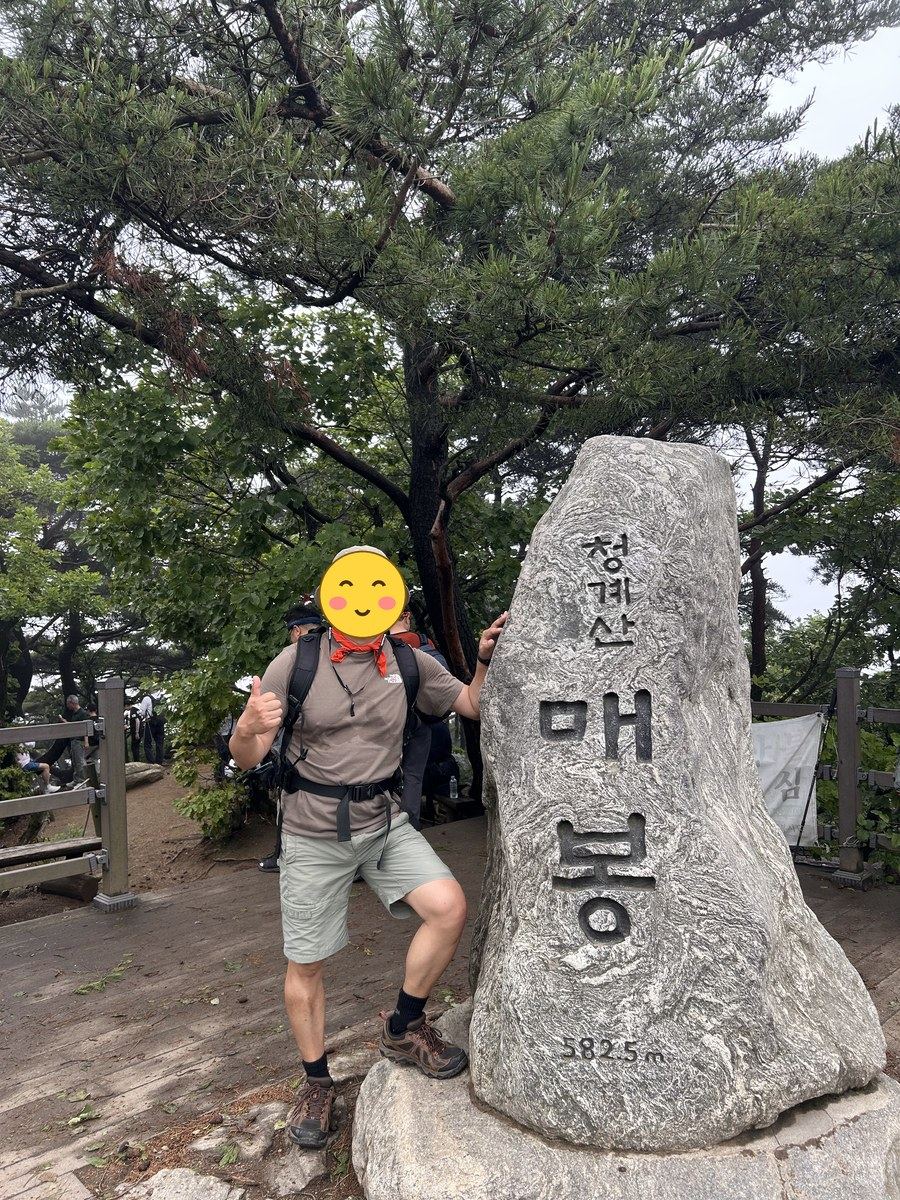
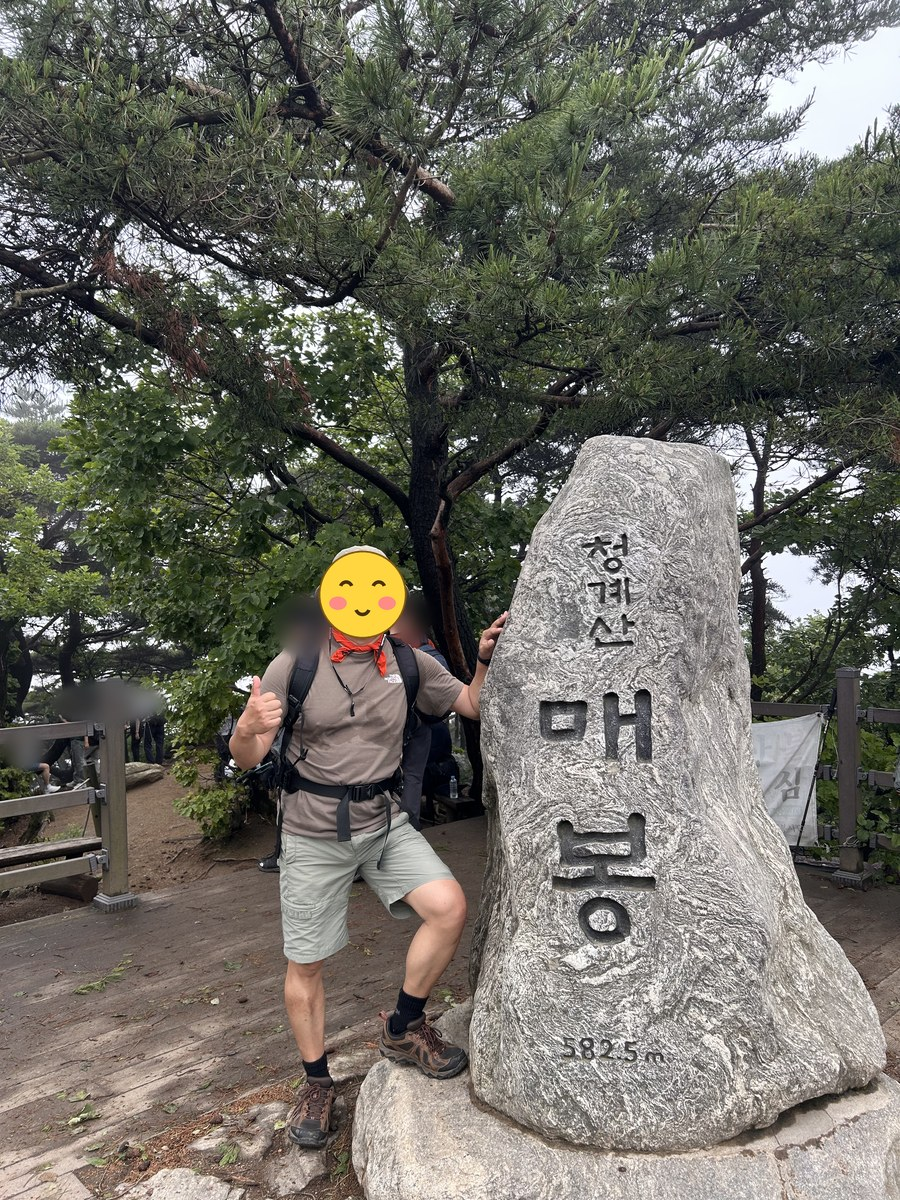
청계산 정상 사진 속 다른 등산객 얼굴 흐림 처리
Claude-Session: https://claude.ai/code/session_017VzL9DGGRFGZqtRBt5vjce

diff --git a/docs/mountain/청계산.html b/docs/mountain/청계산.html
@@ -64,7 +64,7 @@
 
   <div class="post-body">
     <div class="main"><div class="lede"><p>청계산은 서울·과천·성남·의왕에 걸친 산으로, 대부분의 구간이 흙길이라 무릎에 부담이 적습니다. 관악산이 바위산이라면 청계산은 그 반대 성격입니다.</p><p>대부분의 등산객이 목표로 삼는 곳은 매봉입니다. 원터골 입구에서 약수터와 깔딱고개를 지나 매봉까지 약 3km, 1시간 20분이면 닿습니다. 돌문바위·매바위를 거치는 코스로 잡으면 왕복 5.4km, 2시간 20분입니다.</p><p>옛골에서 오르는 코스도 인기입니다. 정토사와 혈읍재를 지나 매봉까지 1시간 40분 정도 걸립니다. 다만 청계산의 실제 최고봉은 매봉이 아니라 망경대(618m)로, 군사시설이 있어 접근이 제한됩니다.</p></div>
-    <section class="blk"><h2>등반기록</h2><article class="lg"><header class="lg-head"><a class="lg-fly" href="../assets/3d/cheonggyesan-2025-06-21.html?v=58632e3d" target="_blank"><span class="lg-fly-ic" aria-hidden="true">▶</span>3D 코스 따라가 보기</a><b class="lg-title">원터골에서 오른 청계산 매봉</b><p class="lg-sub">청계산입구(원터골) → 능선 → 매봉 정상 → 능선 동쪽 구간 왕복 → 다른 길로 원터골 하산</p><div class="lg-chips"><span class="lg-chip">2025.06.21</span><span class="lg-chip">청계산입구(원터골) 출발</span><span class="lg-chip">흐림</span></div></header><div class="lg-stats"><div class="lg-stat"><b>8.44km</b><span>이동 거리</span></div><div class="lg-stat"><b>4:13:47</b><span>총 소요시간</span></div><div class="lg-stat"><b>650m</b><span>고도 상승</span></div><div class="lg-stat"><b>15,430보</b><span>걸음 수</span></div><div class="lg-stat"><b>908kcal</b><span>소모 칼로리</span></div><div class="lg-stat"><b>30&#x27;03&quot;/km</b><span>평균 페이스</span></div></div><h3>원터골에서 매봉으로</h3><p>토요일 오전 10시 1분, 원터골 쪽에서 출발했습니다. 중간중간 쉬어 가며 능선에 올라 11시 48분쯤 매봉 정상에 도착했네요. 출발한 지 1시간 50분 만입니다.</p><h3>청계산 매봉, 582.5m</h3><p>흐린 날씨였지만 소나무 아래 매봉 정상석 앞에서 인증샷을 남기고 30분쯤 쉬었습니다.</p><figure class="lg-fig"><img src="../assets/photos/log/청계산-2025-06-21-2391.5dd8a8ca.jpg" alt="청계산 매봉 정상석에서 (11시 49분)" loading="lazy" decoding="async"><figcaption>청계산 매봉 정상석에서 (11시 49분)</figcaption></figure><h3>능선을 조금 더 걷고 원터골로 하산</h3><p>12시 19분에 정상을 떠나 능선 동쪽으로 조금 더 걸어갔다가 되돌아왔고, 올라온 길과는 다른 길로 내려와 14시 15분에 산행을 마쳤습니다. 총 8.44km, 4시간 13분이 걸렸네요.</p><figure class="lg-fig"><img src="../assets/photos/log/청계산-2025-06-21-route.a123f70b.jpg" alt="GPS 경로 — 원터골 기점 회귀" loading="lazy" decoding="async"><figcaption>GPS 경로 — 원터골 기점 회귀</figcaption></figure><div class="lg-verdict"><p>가깝고 부담 없이 반나절에 다녀오기 좋은 산행이었습니다.</p></div></article></section>
+    <section class="blk"><h2>등반기록</h2><article class="lg"><header class="lg-head"><a class="lg-fly" href="../assets/3d/cheonggyesan-2025-06-21.html?v=58632e3d" target="_blank"><span class="lg-fly-ic" aria-hidden="true">▶</span>3D 코스 따라가 보기</a><b class="lg-title">원터골에서 오른 청계산 매봉</b><p class="lg-sub">청계산입구(원터골) → 능선 → 매봉 정상 → 능선 동쪽 구간 왕복 → 다른 길로 원터골 하산</p><div class="lg-chips"><span class="lg-chip">2025.06.21</span><span class="lg-chip">청계산입구(원터골) 출발</span><span class="lg-chip">흐림</span></div></header><div class="lg-stats"><div class="lg-stat"><b>8.44km</b><span>이동 거리</span></div><div class="lg-stat"><b>4:13:47</b><span>총 소요시간</span></div><div class="lg-stat"><b>650m</b><span>고도 상승</span></div><div class="lg-stat"><b>15,430보</b><span>걸음 수</span></div><div class="lg-stat"><b>908kcal</b><span>소모 칼로리</span></div><div class="lg-stat"><b>30&#x27;03&quot;/km</b><span>평균 페이스</span></div></div><h3>원터골에서 매봉으로</h3><p>토요일 오전 10시 1분, 원터골 쪽에서 출발했습니다. 중간중간 쉬어 가며 능선에 올라 11시 48분쯤 매봉 정상에 도착했네요. 출발한 지 1시간 50분 만입니다.</p><h3>청계산 매봉, 582.5m</h3><p>흐린 날씨였지만 소나무 아래 매봉 정상석 앞에서 인증샷을 남기고 30분쯤 쉬었습니다.</p><figure class="lg-fig"><img src="../assets/photos/log/청계산-2025-06-21-2391.78d177f4.jpg" alt="청계산 매봉 정상석에서 (11시 49분)" loading="lazy" decoding="async"><figcaption>청계산 매봉 정상석에서 (11시 49분)</figcaption></figure><h3>능선을 조금 더 걷고 원터골로 하산</h3><p>12시 19분에 정상을 떠나 능선 동쪽으로 조금 더 걸어갔다가 되돌아왔고, 올라온 길과는 다른 길로 내려와 14시 15분에 산행을 마쳤습니다. 총 8.44km, 4시간 13분이 걸렸네요.</p><figure class="lg-fig"><img src="../assets/photos/log/청계산-2025-06-21-route.a123f70b.jpg" alt="GPS 경로 — 원터골 기점 회귀" loading="lazy" decoding="async"><figcaption>GPS 경로 — 원터골 기점 회귀</figcaption></figure><div class="lg-verdict"><p>가깝고 부담 없이 반나절에 다녀오기 좋은 산행이었습니다.</p></div></article></section>
     <section class="blk"><h2>이 산의 포인트</h2><ul class="hl"><li>대부분 흙길이라 무릎 부담이 적음</li><li>원터골 → 매봉 3km·1시간 20분</li><li>돌문바위·매바위 등 코스 중간 명소</li><li>실제 최고봉 망경대는 접근 제한</li></ul></section>
     <section class="blk"><h2>등산 코스</h2><div class="table-scroll"><table class="courses">
       <thead><tr><th>코스</th><th>거리</th><th>소요</th><th>난이도</th></tr></thead>
